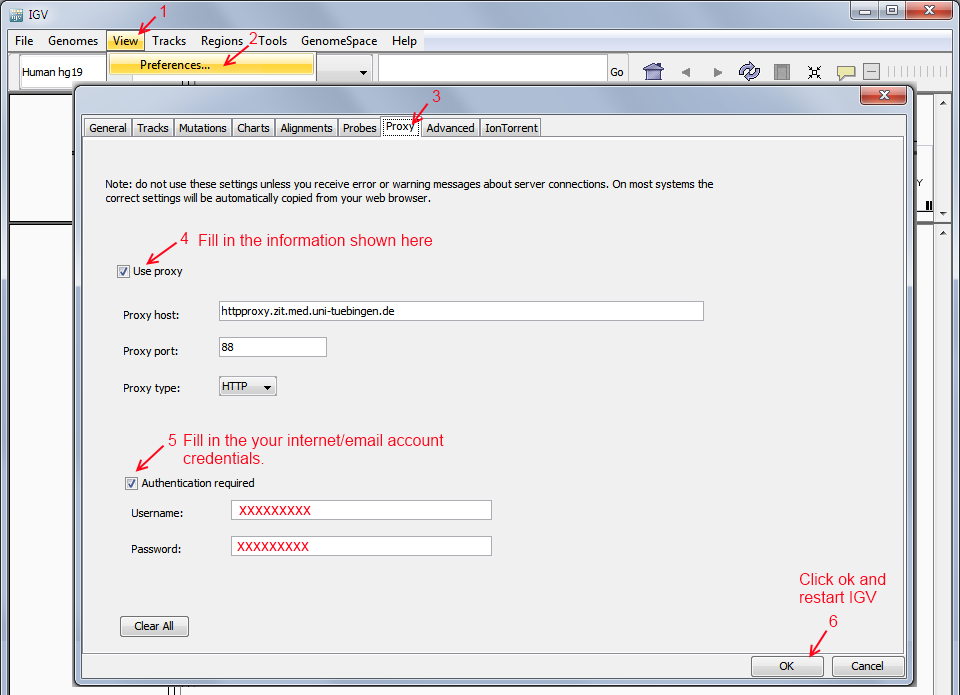
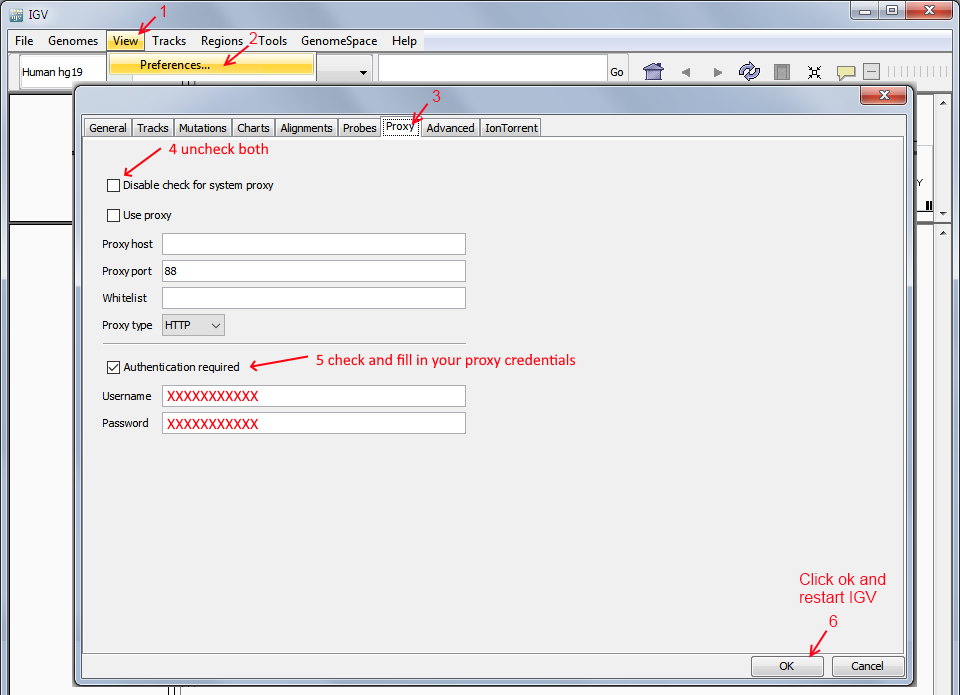
docu updates

diff --git a/src/GSvar/ProcessedSampleWidget.cpp b/src/GSvar/ProcessedSampleWidget.cpp
@@ -113,13 +113,13 @@ ProcessedSampleWidget::ProcessedSampleWidget(QWidget* parent, QString ps_id)
 	{
 		QMenu* rna_menu = new QMenu();
 
-		QAction* expr_action = rna_menu->addAction("open RNA expression data widget", this, SLOT(openGeneExpressionWidget()));
+		QAction* expr_action = rna_menu->addAction("open RNA expression data dialog", this, SLOT(openGeneExpressionWidget()));
 		expr_action->setEnabled(GlobalServiceProvider::database().processedSamplePath(ps_id_, PathType::EXPRESSION).exists);
-		QAction* exon_expr_action = rna_menu->addAction("open RNA exon expression data widget", this, SLOT(openExonExpressionWidget()));
+		QAction* exon_expr_action = rna_menu->addAction("open RNA exon expression data dialog", this, SLOT(openExonExpressionWidget()));
 		exon_expr_action->setEnabled(GlobalServiceProvider::database().processedSamplePath(ps_id_, PathType::EXPRESSION_EXON).exists);
-		QAction* splicing_action = rna_menu->addAction("open RNA splicing data widget", this, SLOT(openSplicingWidget()));
+		QAction* splicing_action = rna_menu->addAction("open RNA splicing data dialog", this, SLOT(openSplicingWidget()));
 		splicing_action->setEnabled(GlobalServiceProvider::database().processedSamplePath(ps_id_, PathType::SPLICING_ANN).exists);
-		QAction* fusion_action = rna_menu->addAction("open RNA fusion widget", this, SLOT(openFusionWidget()));
+		QAction* fusion_action = rna_menu->addAction("open RNA fusion dialog", this, SLOT(openFusionWidget()));
 		fusion_action->setEnabled(GlobalServiceProvider::database().processedSamplePath(ps_id_, PathType::FUSIONS).exists);
 
 		ui_->rna_btn->setMenu(rna_menu);

diff --git a/src/GSvar/ExpressionExonWidget.cpp b/src/GSvar/ExpressionExonWidget.cpp
@@ -35,7 +35,7 @@ ExpressionExonWidget::ExpressionExonWidget(QString tsv_filename, int sys_id, QSt
 	// skip if no NGSD is available
 	if (!LoginManager::active())
 	{
-		QMessageBox::warning(this, "Expression data widget", "Widget requires NGSD access!");
+		QMessageBox::warning(this, "Expression data dialog", "Dialog requires NGSD access!");
 		return;
 	}
 	ui_->setupUi(this);

diff --git a/doc/GSvar/igv_integration.md b/doc/GSvar/igv_integration.md
@@ -67,13 +67,12 @@ Follow these instructions, if only the black console window of IGV but not the a
 
 ### IGV cannot load genomes
 IGV needs access to the Broad Institute web server to manage non-local genome files.  
-If it cannot access the server, during startup the error message `cannot connect to genome server` is shown and several other errors can occur.
+If it cannot access the server, during startup `cannot connect to genome server`, `error loading genome` or similar errors are shown.
 
-In that case, you have to set the proxy like shown here:
+In case you need to access the internet through a proxy, do this:
 
 ![alt text](igv_proxy.png)
 
-Finally, you have to restart IGV.
 
 ### How can I change the port through which IGV and GSvar communicate?
 GSvar sends commands to IGV through a port. The default port is 60151.  

diff --git a/doc/GSvar/data_analysis.md b/doc/GSvar/data_analysis.md
@@ -66,7 +66,7 @@ Existing variant calls are used and annotations are updated.
 This is usually done when the annotation data is older than a few months.  
 Up-to-data annotation data is important as public databases (ClinVar, HGMD, OMIM, ...) are updated regularly.
 
-**Note:** Re-anotation is always possible. Re-calling of variants is only possible as long as no report configuration exists for the respecitve variant type.
+**Note:** Re-anotation is always possible. Re-calling of variants is only possible as long as no report configuration exists for the respecitve variant type. If a report-configuration exists, you need to delete it first: use the delete button in the processed sample tab.
 
 
 ## Where can I trigger analysis jobs?
